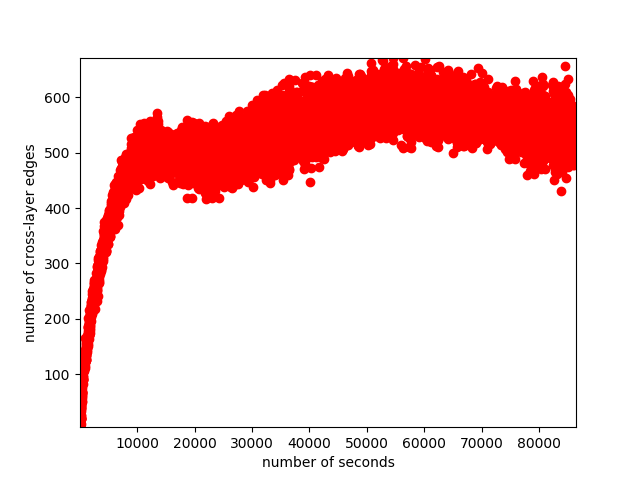
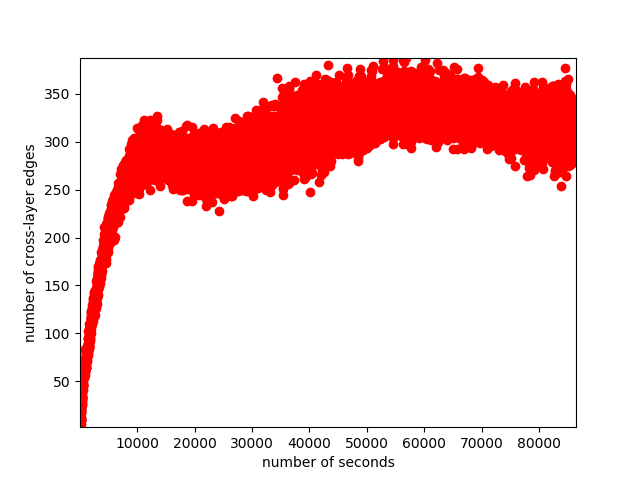
update visualizations for relevant CLE count

diff --git a/GraphConstruction/reproValidity.py b/GraphConstruction/reproValidity.py
@@ -70,6 +70,9 @@ def getValues(t, delta_t, minTime, maxTime, msgDict, netwType):
     infoFlowNetwork = createInfoFlowNetwork(t, delta_t, minTime, maxTime, msgDict)
     infoFlowNetwork.getTransitiveFault(netwType)
     infoFlowNetwork.getRanginkCorrelationAggregate(netwType)
+    # if netwType == 'MLN':
+    #     print("The MLN network for ", t, " has ", infoFlowNetwork.getMLNEdgeCount(), " edges")
+    #     print("And it has CLE ", len(infoFlowNetwork.crossLayerEdges))
     # print(nrNodes, infoFlowNetwork.nrEdges)
     # if netwType == 'monoplex':
     #     infoFlowNetwork.getRanginkCorrelationAggregate()

diff --git a/GraphConstruction/infoFlowNetwork.py b/GraphConstruction/infoFlowNetwork.py
@@ -146,9 +146,9 @@ class InformationFlowNetwork:
             if (not B in self.crossLayerIn[T]):
                 self.crossLayerIn[T][B] = {}
             if (not A in self.crossLayerIn[T][B]):
-                self.crossLayerIn[T][B][A] = (timeV, timeU)
+                self.crossLayerIn[T][B][A] = (timeU, timeU)
             else:
-                self.crossLayerIn[T][B][A] = getMinMax(self.crossLayerIn[T][B][A], timeV)
+                self.crossLayerIn[T][B][A] = getMinMax(self.crossLayerIn[T][B][A], timeU)
         else:
             if not(A in self.inLayer[T]):
                 self.inLayer[T][A] = {}
